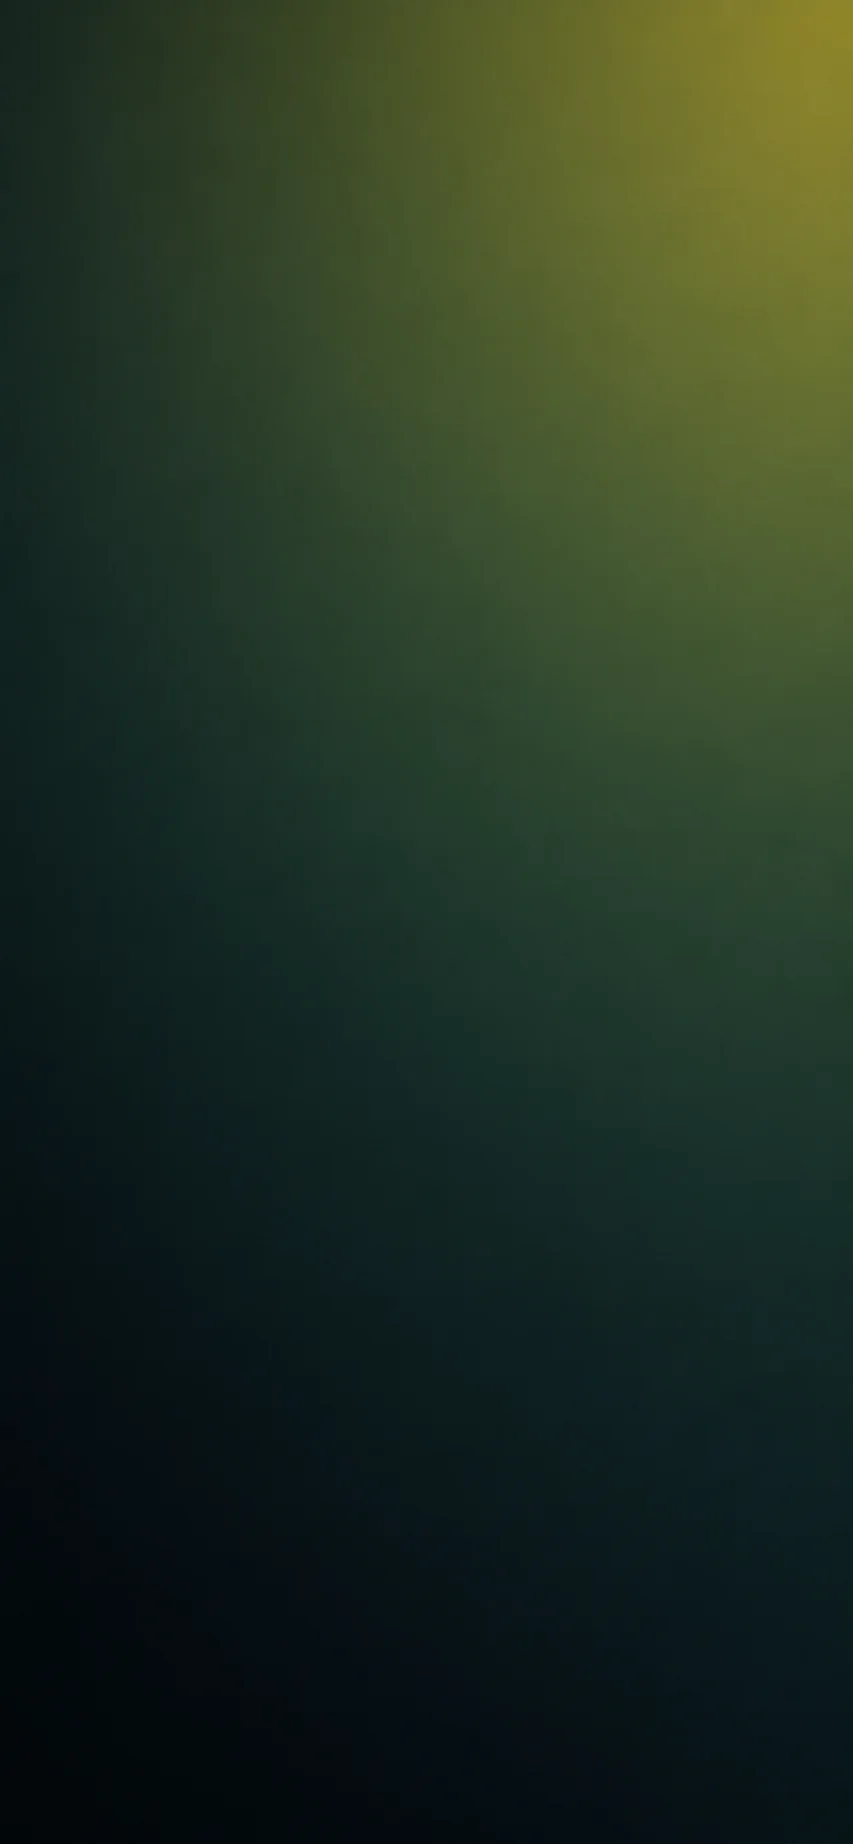
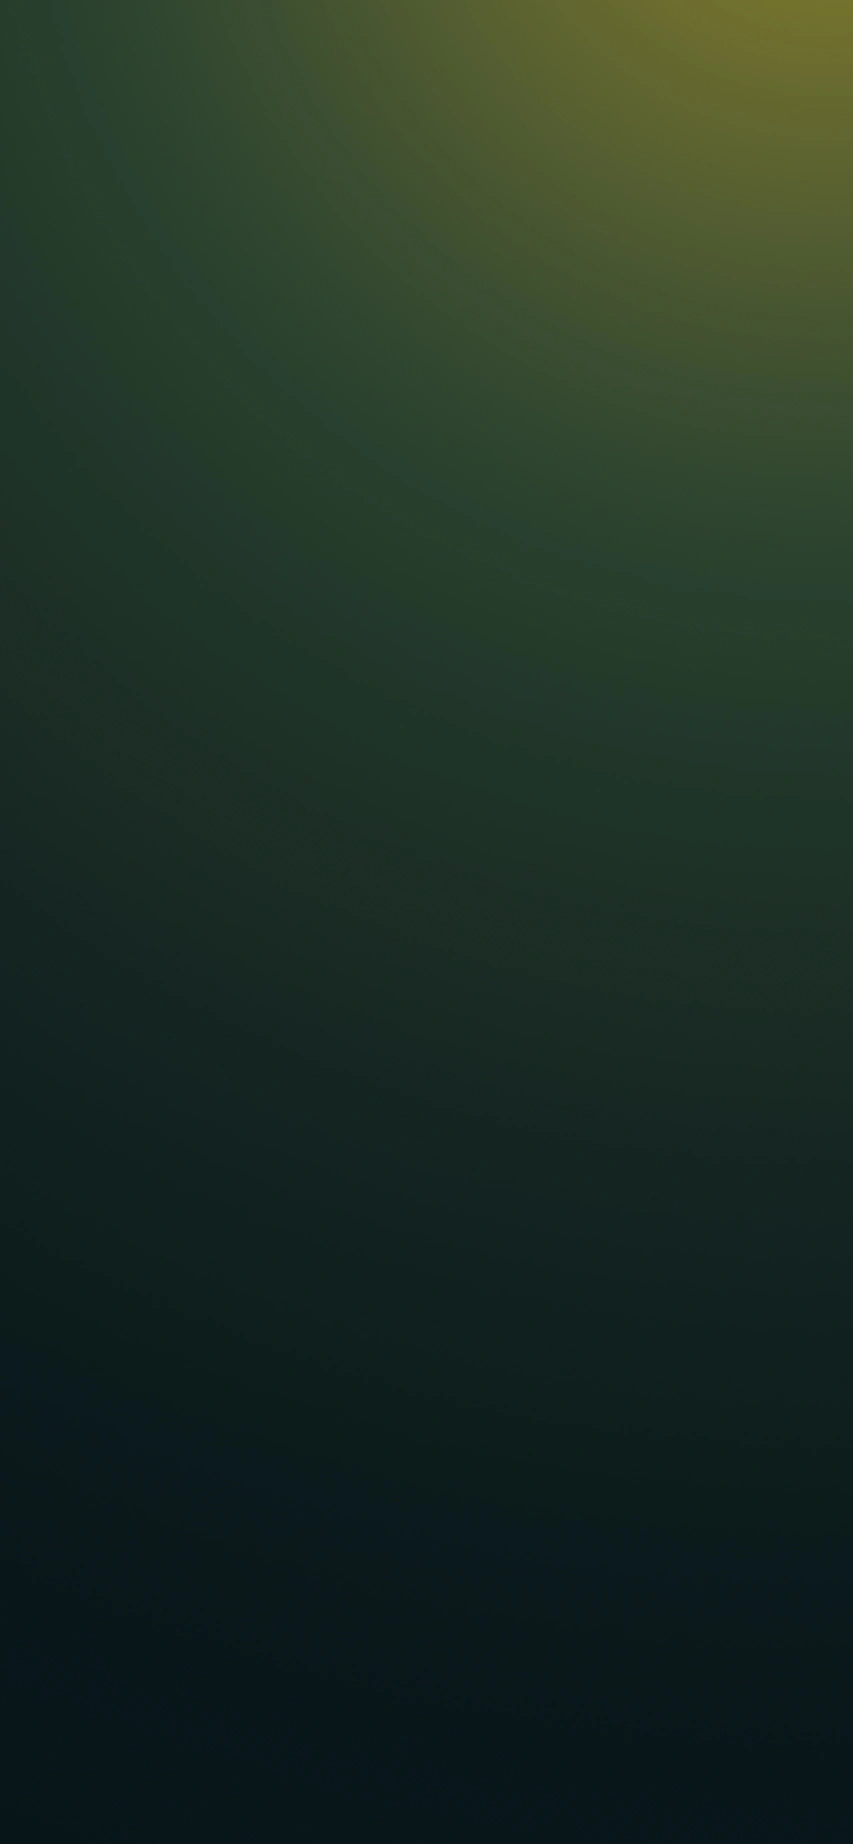
Swap in the new background, encoded to stay clear of gradient banding
The image is one large smooth gradient, so the thing to protect against
when compressing it is banding — flat plateaus with a visible step
between them — not blockiness. Measured every candidate encoding against
the source pixel by pixel: quality 95 with smart chroma subsampling
holds the whole frame within 5/255 of the source even after the browser
upscales it to cover the viewport, at 25KB. Lower qualities land near
6KB but flatten the gradient into long plateaus, which is exactly what
shows across the dark lower two thirds on an OLED panel.

25KB is the right side of that trade because the file is precached, so
it's a one-time fetch rather than a per-load cost.

Changed region(s): [[0.5791, 0.0, 1.0, 0.4328], [0.0, 0.0, 0.0305, 0.0309]]

diff --git a/src/components/background/MeshGradientBackground.tsx b/src/components/background/MeshGradientBackground.tsx
@@ -3,9 +3,17 @@ interface MeshGradientBackgroundProps {
 }
 
 // The background image itself, not a CSS approximation of it. Served as a
-// 9KB WebP (the source PNG was 1.1MB — a smooth gradient re-encodes almost
-// to nothing in WebP), precached by the service worker like every other
-// static asset, so it's on screen from the first paint offline too.
+// 25KB WebP at the source's full 853x1844, precached by the service worker
+// like every other static asset, so it's on screen from the first paint
+// offline too.
+//
+// The encoding is deliberately quality 95 with smartSubsample rather than the
+// ~6KB a lower quality would give: this is one big smooth gradient, and the
+// failure mode of over-compressing a gradient is banding — flat plateaus with
+// a visible step between them, worst on a dark OLED panel, which is most of
+// this image. At q95 the whole frame stays within 5/255 of the source even
+// after the browser upscales it to cover the viewport. Don't trade those
+// bytes away; it's a one-time precached fetch.
 //
 // It stays a plain background-image on a static div for the same reason the
 // gradient before it did: this component sits under the whole app shell,
